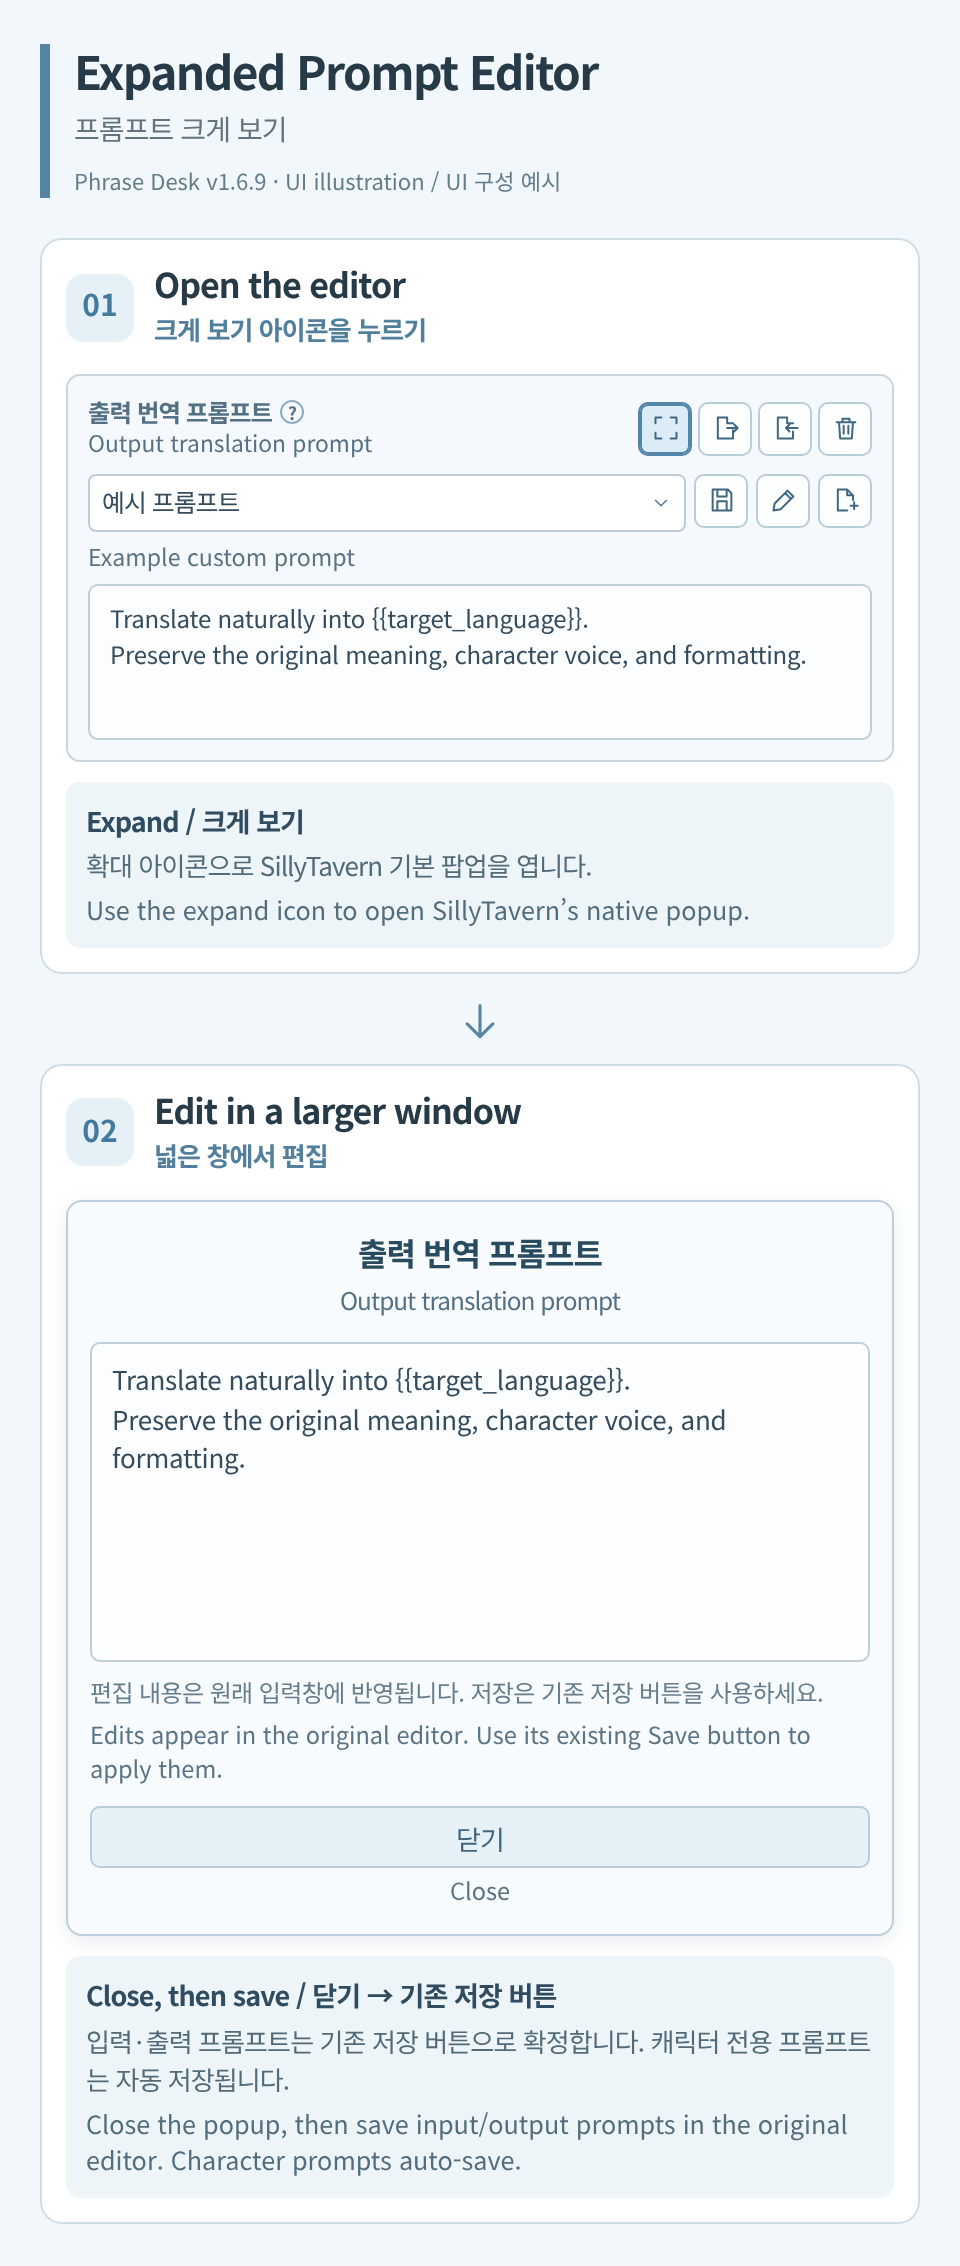
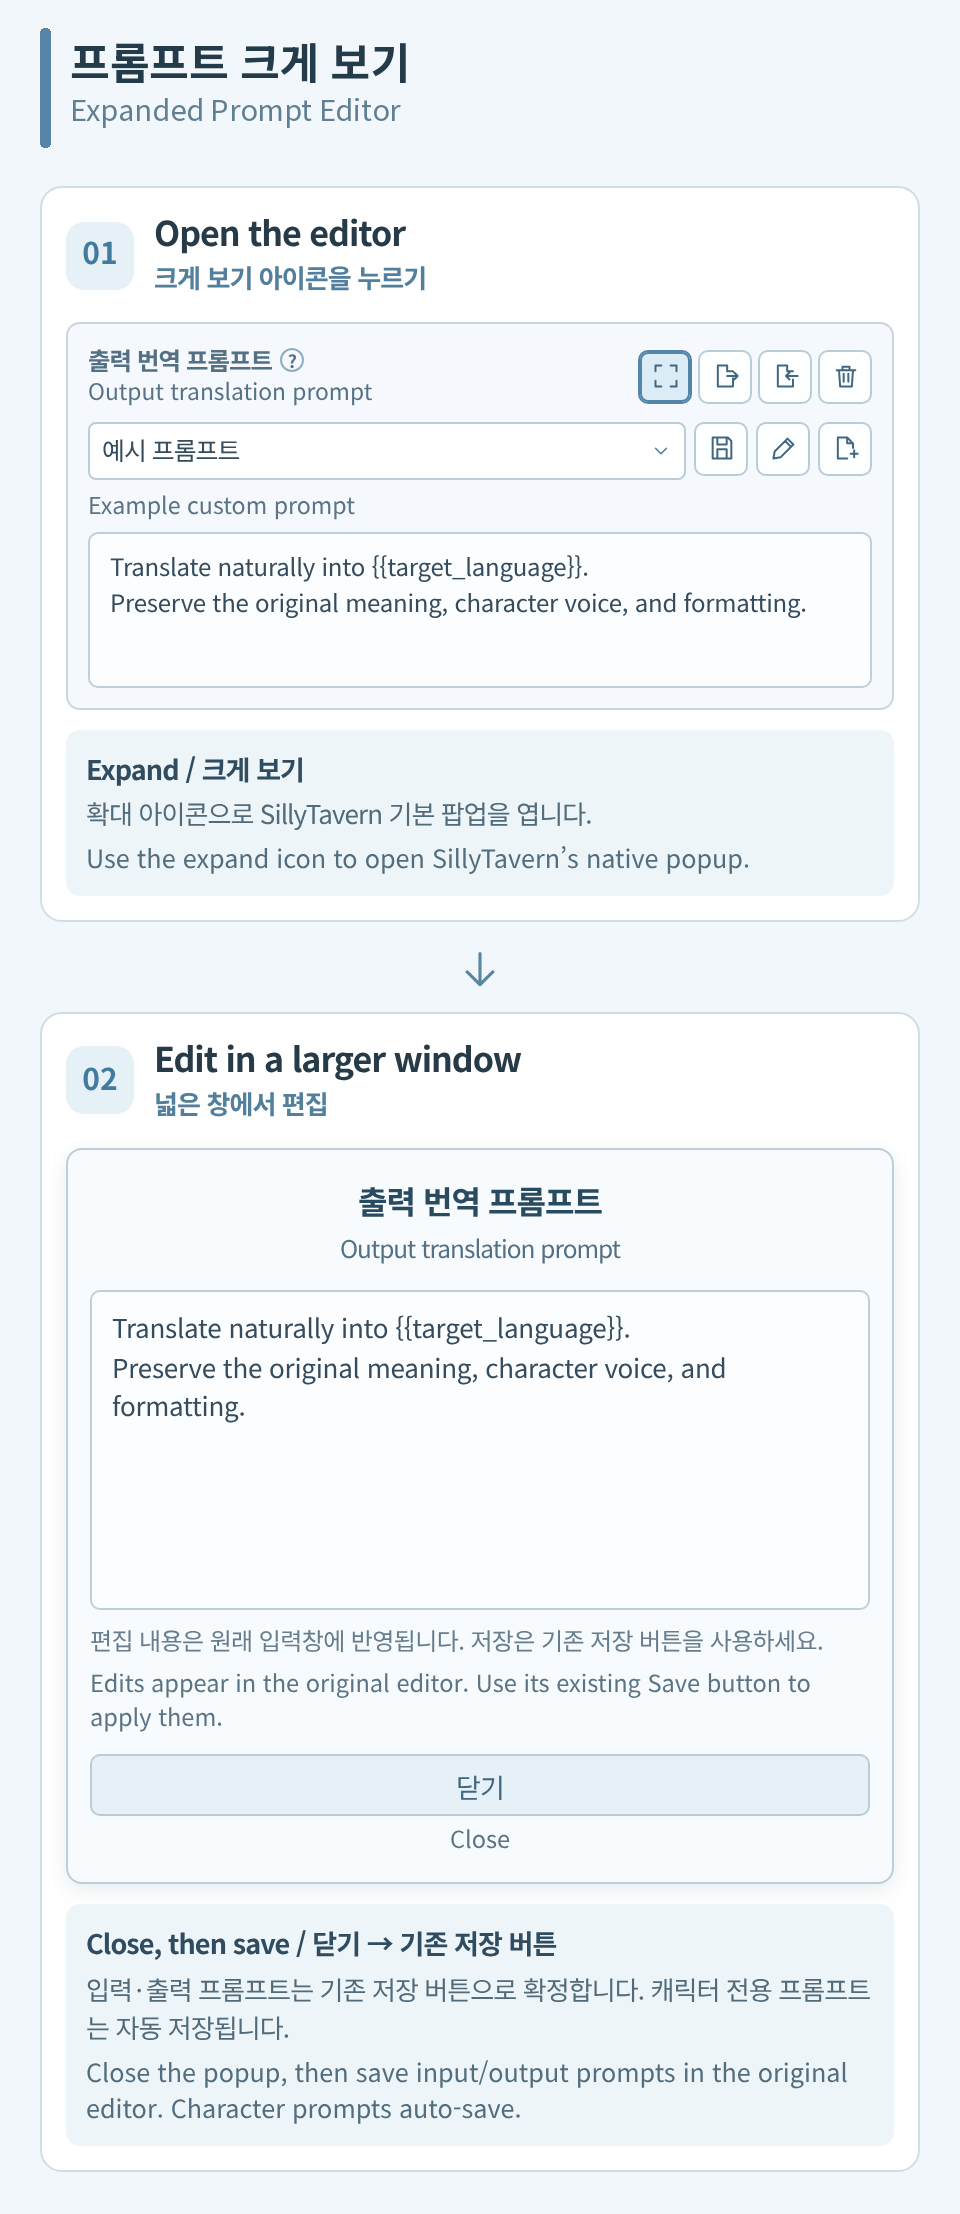
docs: clean guide image captions and bilingual headings

diff --git a/README.md b/README.md
@@ -56,7 +56,7 @@ Set the translation method and related options under **Extensions → Phrase Des
 **Translation settings** groups the connection, engine, translation mode, token limit, and language controls. It starts expanded and remembers your last open/closed choice. **Advanced settings** starts collapsed and contains the four extra options and all three prompt editors. The cache controls remain outside these groups.
 
 <p align="center">
-  <a href="assets/readme/mobile/phrase-desk-translation-settings-mobile.png"><img src="assets/readme/mobile/phrase-desk-translation-settings-mobile.png" alt="Translation settings panel (v1.6.9 UI illustration)" width="860" /></a>
+  <a href="assets/readme/mobile/phrase-desk-translation-settings-mobile.png"><img src="assets/readme/mobile/phrase-desk-translation-settings-mobile.png" alt="Translation settings panel" width="860" /></a>
 </p>
 
 **Translation Connection**
@@ -100,7 +100,7 @@ Set the translation method and related options under **Extensions → Phrase Des
 **Input and Translation Rules**
 
 <p align="center">
-  <a href="assets/readme/mobile/phrase-desk-advanced-settings-mobile.png"><img src="assets/readme/mobile/phrase-desk-advanced-settings-mobile.png" alt="Advanced settings and three prompt editors (v1.6.9 UI illustration)" width="860" /></a>
+  <a href="assets/readme/mobile/phrase-desk-advanced-settings-mobile.png"><img src="assets/readme/mobile/phrase-desk-advanced-settings-mobile.png" alt="Advanced settings and three prompt editors" width="860" /></a>
 </p>
 
 | Setting | Description |
@@ -118,7 +118,7 @@ Enabling automatic translation may create a translation request whenever a new m
 Each **input/output translation prompt selector and editor** has its own disk Save button; Save as New, Rename, Import, and confirmed Delete save their named action immediately. Unsaved changes require an in-page confirmation before switching. Both saved selections survive refresh/restart independently. The **Current Character Prompt** still auto-saves. Use the expand icon on any of the three editors to open a larger editor in SillyTavern's native popup; the same read-only, explicit-save, or auto-save rules apply. Changing output prompts does not erase existing translations or automatically retranslate; hold `🌐` to request a new translation.
 
 <p align="center">
-  <a href="assets/readme/mobile/phrase-desk-expanded-prompt-mobile.png"><img src="assets/readme/mobile/phrase-desk-expanded-prompt-mobile.png" alt="Expanded prompt editor and save behavior (v1.6.9 UI illustration)" width="860" /></a>
+  <a href="assets/readme/mobile/phrase-desk-expanded-prompt-mobile.png"><img src="assets/readme/mobile/phrase-desk-expanded-prompt-mobile.png" alt="Expanded prompt editor and save behavior" width="860" /></a>
 </p>
 
 The Current Character Prompt is saved by character name rather than by chat. Character cards with exactly the same name share that prompt, and renaming a character may leave the prompt field for the new name empty until you set it again.
@@ -396,7 +396,7 @@ It is a good idea to export important Phrase Notebook and study records as a bac
 **번역 설정**에는 연결 프로필, 번역 엔진, 번역 방식, 토큰 한도와 언어 설정이 모여 있습니다. 기본적으로 펼쳐져 있으며 마지막 접기·펼치기 상태를 기억합니다. **고급 설정**은 기본적으로 접혀 있고, 네 가지 추가 옵션과 세 프롬프트 편집기를 포함합니다. 캐시 관리 항목은 두 그룹 바깥에 있습니다.
 
 <p align="center">
-  <a href="assets/readme/mobile/phrase-desk-translation-settings-mobile.png"><img src="assets/readme/mobile/phrase-desk-translation-settings-mobile.png" alt="번역 설정 패널 (v1.6.9 UI 구성 예시)" width="860" /></a>
+  <a href="assets/readme/mobile/phrase-desk-translation-settings-mobile.png"><img src="assets/readme/mobile/phrase-desk-translation-settings-mobile.png" alt="번역 설정 패널" width="860" /></a>
 </p>
 
 **번역 연결**
@@ -440,7 +440,7 @@ It is a good idea to export important Phrase Notebook and study records as a bac
 **입력과 번역 규칙**
 
 <p align="center">
-  <a href="assets/readme/mobile/phrase-desk-advanced-settings-mobile.png"><img src="assets/readme/mobile/phrase-desk-advanced-settings-mobile.png" alt="고급 설정과 세 프롬프트 편집기 (v1.6.9 UI 구성 예시)" width="860" /></a>
+  <a href="assets/readme/mobile/phrase-desk-advanced-settings-mobile.png"><img src="assets/readme/mobile/phrase-desk-advanced-settings-mobile.png" alt="고급 설정과 세 프롬프트 편집기" width="860" /></a>
 </p>
 
 | 설정 | 설명 |
@@ -458,7 +458,7 @@ It is a good idea to export important Phrase Notebook and study records as a bac
 **입력과 출력의 프롬프트 선택·내용은 각자의 디스켓 저장 버튼으로 확정**합니다. 각각 마지막으로 저장한 선택을 새로고침·브라우저 재실행·서버 재시작 후에도 복원합니다. 새 프롬프트로 저장·이름 변경·가져오기·삭제 확인은 각 영역에서 독립적으로 동작하며, 미저장 수정 내용은 해당 번역에 적용되지 않습니다. **현재 캐릭터 전용 프롬프트는 기존대로 자동 저장**됩니다. 세 편집기의 크게 보기 아이콘을 누르면 SillyTavern 기본 팝업에서 넓게 편집할 수 있으며, 읽기 전용·수동 저장·자동 저장 규칙은 그대로 적용됩니다. 기존 출력 번역 캐시는 그대로 남고, 새 출력 프롬프트로 다시 번역하려면 🌐을 길게 누르면 됩니다.
 
 <p align="center">
-  <a href="assets/readme/mobile/phrase-desk-expanded-prompt-mobile.png"><img src="assets/readme/mobile/phrase-desk-expanded-prompt-mobile.png" alt="프롬프트 크게 보기와 저장 방법 (v1.6.9 UI 구성 예시)" width="860" /></a>
+  <a href="assets/readme/mobile/phrase-desk-expanded-prompt-mobile.png"><img src="assets/readme/mobile/phrase-desk-expanded-prompt-mobile.png" alt="프롬프트 크게 보기와 저장 방법" width="860" /></a>
 </p>
 
 현재 캐릭터 전용 프롬프트는 채팅방이 아니라 캐릭터 이름을 기준으로 저장됩니다. 이름이 완전히 같은 캐릭터 카드는 같은 프롬프트를 공유하며, 캐릭터 이름을 바꾸면 새 이름의 프롬프트 칸은 다시 설정하기 전까지 비어 보일 수 있습니다.
